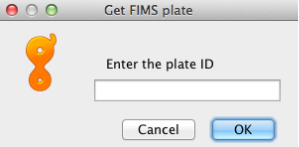
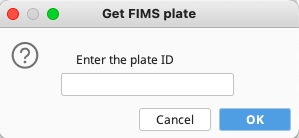
Update extraction_plates.rst (#25)
* Update extraction_plates.rst

updated text, 3rd person, capitalized titles, italicized windows, updated screenshots

* Add files via upload

These are the updated screenshots

diff --git a/Docs/extraction_plates.rst b/Docs/extraction_plates.rst
@@ -1,19 +1,19 @@
-Generating extraction plates
+Generating Extraction Plates
 ============================
 
-Creating the plate (96 wells)
+Creating the Plate (96 wells)
 -----------------------------
 
 The first step of the LIMS workflow is the generation of a DNA extraction plate. In LIMS terms, an "extraction plate" is a set of DNA extractions following identical protocols and can include anywhere from a single extraction up to a plate of 384 extractions. This set of extraction will be moved through the entire pipeline together.
 
 To create an extraction plate:
 
-* Click the "New Reaction" button on the Geneious Toolbar. 
+* Click the "New Reaction" button on the Geneious Prime Toolbar. 
 
 .. figure:: /images/new_reaction_button.png
   :align: center
 
-* In the drop-down menu of the "New Reaction" window, choose "Extraction" from the "Type of reaction" drop-down menu. Select the "96 well plate" size option and click OK. 
+* In the dropdown menu of the *New Reaction* window, choose "Extraction" from the "Type of reaction" dropdown menu. Select the "96 well plate" size option and click "OK". 
 
 .. figure:: /images/new_extraction_plate.png
   :align: center
@@ -23,101 +23,113 @@ To create an extraction plate:
 .. figure:: /images/empty_extraction_plate.png
   :align: center
 
-* Insert a name for the extraction plate into the relevant field in the window. (See the :ref:`lims_conventions-link` for best practices.)
+* Insert a name for the extraction plate into the relevant field in the window. (See the :ref:`lims_conventions-link` for best practices)
 
-* Click the "Bulk Edit" button (found in the toolbar, as seen in image above). This will allow you to attach the  FIMS meta-data from all tissues to each tissue's associated workflow in LIMS. 
+* Click the "Bulk Edit" button. 
 
-* A new "Edit Plate" window will appear. 
+* A new *Edit Plate* window will appear. Within this window, LIMS can pull the GEOME FIMS metadata for all tissues to be eventually attached to each tissue's LIMS workflow ID. 
 
 .. figure:: /images/get_tissue_ids.png
   :align: center
 
 * Click on "Tools" and select "Get Tissue ID's From Archive Plate" from the dropdown menu.
 
-* Another new window "Get FIMS plate" will appear.
+* Another new window *Get FIMS plate* will appear.
 
 .. figure:: /images/enter_plate_id.png
   :align: center
 
-* Here you must enter the tissuePlate value that was included in the FIMS spreadsheet for this expedition. Click "OK" once complete.
+* Here, enter the tissuePlate value that was included in the GEOME FIMS spreadsheet for this expedition. Click "OK" once complete.
 
-* A new window will appear indicating the LIMS is fetching the tissue ID's from the FIMS database. When successful, the "Tissue Sample Id" fields in the "Edit Plate" window will be populated. Alternatively, if you receive a message indicating that the plate cannot be found in the FIMS, check:
+* A new window will appear indicating the LIMS is fetching the tissue ID's from the FIMS database. When successful, the "Tissue Sample Id" fields in the *Edit Plate* window will be populated. Alternatively, if a message indicating that the plate cannot be found in the FIMS is recieved, check:
 
-	* that the plate ID is spelled exactly as it was included in the FIMS spreadsheet. 
+	* that the plate ID is spelled exactly as it was included in the GEOME FIMS spreadsheet and/or 
 
-	* that the FIMS spreadsheet was successfully uploaded to the FIMS; and
+	* that the FIMS spreadsheet was successfully uploaded to the GEOME FIMS.
 
-	* that when you logged in to the LIMS that you selected the correct FIMS field for the "Plate name field" of the log-in window.
 
-* After successful upload, select "Generate New Extraction IDs" from the "Tools" dropdown menu. The LIMS will automatically populate the second column of the window (Extraction Id). The .1 indicates this is the first extraction in the LIMs for that particular tissue, .2 would indicate it is the second and so on.
+* After successful upload, select "Generate New Extraction IDs" from the "Tools" dropdown menu in the *Edit Plate* window. The LIMS will automatically populate the second column of the window ("Extraction ID"). The .1 indicates this is the first extraction in the LIMs for that particular tissue, .2 would indicate it is the second and so on.
 
-* Finally you want to import the Extraction Barcode's for each DNA extract. This can be done in two different ways:
+* Finally, import the Extraction Barcodes (the 2D barcode on the bottom of the matrix tubes) for each DNA extract. This can be done in two different ways:
 
-* *Option 1:* This is our preferred method. Select "Import Extraction Barcodes from FIMS" from the "Tools" dropdown menu. A new window will appear, and select the FIMS column that contains the extraction barcodes from the dropdown menu - in our case it is "tissueOtherCatalogNumbers". For this to work, you must ensure that your FIMS spreadsheet contains the unique extraction barcodes.
+* *Option 1:* This is the recommended method. Select "Import Extraction Barcodes from FIMS" from the "Tools" dropdown menu. A new window will appear, and select the GEOME FIMS column that contains the extraction barcodes from the dropdown menu - typically this is "tissueOtherCatalogNumbers". For this to work, ensure that the FIMS contains the unique extraction barcodes.
 
 .. figure:: /images/import_extraction_barcode_FIMS.png
   :align: center
   :scale: 50 %
 
-* *Option 2:* Select "Import Extraction Barcodes from File" from the "Tools" dropdown menu. Select the file generated from the plate scanner. Ensure that the well order of the plate scan matches the well order displayed in the Edit Plate window.
+* *Option 2:* Select "Import Extraction Barcodes from File" from the "Tools" dropdown menu. Select the file generated from the plate scanner. Ensure that the well order of the plate scan matches the well order displayed in the *Edit Plate* window.
 
-* Once this is complete Click "OK" and you will be brought back to the "New Extraction" window.
+* Once this is complete Click "OK". Clicking "OK" will attach the FIMS metadata to the new extraction plate.
 
-* Here, click on "Edit All Wells" to open a new window. 
+* Back on the "*New Extraction* window, click on "Edit All Wells" to open a new window. 
 
 .. figure:: /images/edit_extraction_wells.png
   :align: center
 
-* This window allows you to enter information about the extraction - date, method, technician etc. 
+* Enter information about the extraction - date, method, technician etc. into this window. Once complete, click "OK". 
 
-* Once complete, click "OK" which will bring you back to the "New Extraction" window. 
+* Click "OK" in the *New Extraction* window for the LIMS to save the extraction plate.
 
-* Click "OK" in this window for the LIMS to save the extraction plate.
-
-Creating the working stock (96 wells)
+Creating the Working Stock (96 wells)
 -------------------------------------
 
-Once your DNA has been extracted, it is considered best practice to create a working stock. This protects the bulk of your DNA from freeze/thaw cycles as well as possible contamination during lab work. Because you are creating a working stock in the lab, you should also create one in the LIMS. 
+After DNA extraction, the extracts are typically stored in a 2D matrix plate for eventual storage in the biorepository while aliquots are kept in a separate plate to be used in PCR reactions. This protects the bulk of the DNA from freeze/thaw cycles as well as possible contamination during lab work. It is therefore considered best practice to create a working stock extraction plate in the LIMS to represent this aliquoted plate in the lab.
 
-After the initial extraction plate has been created in the LIMS, you can easily create a working stock from this same plate. 
+After the initial extraction plate has been created in the LIMS, it is easy to create a working stock from this same plate. 
 
-•	With the extraction plate you just created selected, click New Reaction. Make sure the box next to “Create plate from existing plate documents” is ticked, and that the Type of reaction is set to Extraction. Click OK. 
+Search for the recently created extraction plate in the Biocode Plugin. Highlight the plate and click "New Reaction" in the Genenious Prime Toolbar. 
+
+Make sure the box next to “Create plate from existing plate documents” is ticked, and that the "Type of reaction" is set to "Extraction". Click "OK". 
 
 .. figure:: /images/new_working_stock.png
    :align: center
    :scale: 50%
    
-•	As before, a new window will open displaying a plate map, except this time most of the data should already be populated. Go ahead and give your working stock a name, following the LIMS naming conventions. 
-•	Click on Bulk Edit to see the data that was pulled in from the extraction plate. You will notice that the Extraction Barcodes column is empty. Leave it empty. Re-entering Extraction Barcodes here will remove them from the parent plate. The working stock plate extractions are linked to the original extraction by the Parent Extraction ID.
-•	Click Save to save your working stock plate to the LIMS.
+As before, a new window will open displaying a plate map, except this time all needed data should already be populated. Give the working stock a name, following the :ref:`lims_conventions-link`. 
 
-Additional Information:
+Click on "Bulk Edit" to see the data that was pulled in from the extraction plate. The "Extraction Barcodes" column should be empty. **Leave it empty.** Re-entering Extraction Barcodes here will remove them from the parent plate. 
+
+The working stock plate extractions should be linked to the original extraction by the value that should be automatically populated in the "Parent Extraction ID" column. The values in the "Extraction ID" column should also automatically have increased.
+
+Click "Save" to save the working stock plate to the LIMS.
+
+Additional Information
 -----------------------
 
-More information on the "Edit Plate" Window:
-~~~~~~~~~~~~~~~~~~~~~~~~~~~~~~~~~~~~~~~~~~~~
+The *Edit Plate* Window
+~~~~~~~~~~~~~~~~~~~~~~~
 
-In this window, the well locations are displayed on the left hand side of each column to make placement easier. The "Swap Direction" button allows the user to choose between reading the plate horizontally or vertically. Clicking "OK" will attach the FIMS meta-data to the new extraction plate. 
+In this window, the well locations are displayed on the left hand side of each column to make placement easier. The "Swap Direction" button allows the user to choose between reading the plate horizontally or vertically. 
 
-Under the "Tools" menu within the "Bulk Edit" window there are a number of options, described below in order of the dropdown menu, available.
+Under the "Tools" dropdown menu there are a number of options available.
 
-	* The "Get Tissue ID's from archive plate" option allows the extraction plate to be filled with extraction IDs from the FIMS data source.
-	* "Import Extraction Barcodes from File" allows the extraction barcode values to be directly imported from the output file of the scanner if 2D well barcodes are being used.
-	* "Import Extraction Barcodes from FIMS" allows the extraction barcode values to be directly imported from the FIMS.
-	* "Fetch extractions from barcodes" is used during "cherry picking" to populate newly reconstituted plates from prior plate locations if physically moving the extractions from original plate to cherry picked plate. Can also use to pull sample info if cherry picked plate is aliquoted, but remember to delete the extraction barcodes before saving cherry picked plate so the barcodes stay in their original locations in LIMS.
-	* "Generate Extraction IDs" automatically generates appropriate extraction IDs based on the tissue sample IDs.
+"Get Tissue IDs From Archive Plate" 
+	This allows the extraction plate to be filled with extraction IDs from the FIMS data source.
 
-More information on editing wells in the plate:
-~~~~~~~~~~~~~~~~~~~~~~~~~~~~~~~~~~~~~~~~~~~~~~~
+"Import Extraction Barcodes from File"
+	This allows the Extraction Barcode values to be directly imported from the output file of the scanner if 2D well barcodes are being used.
 
-The "Edit All Wells" or "Edit Selected Wells" button, found in the toolbar of the "New Extraction" plate window, opens a customizable viewer and editor for plate documents. It is shown both when creating new plates, and when viewing existing plates in the database. Wells can be selected in the plate by dragging the mouse across the plate to select a number of wells, or holding down the shift and ctrl (command on mac) keys to help select multiple individual wells. When a well, or wells, have been selected, click "Edit Selected Wells" to customize those wells. 
+"Import Extraction Barcodes from FIMS"
+	This allows the Extraction Barcode values to be directly imported from the FIMS.
 
-The "Edit Wells" dialog window will open (see image above), and it has a column of checkboxes on its left hand side. Values in the checked fields will be applied to all selected reactions, and unchecked fields will be left as they are. Most values can simply be entered into a dialog box. Make sure to save the plate after making any edits to it.
+"Fetch Extractions from Barcodes" 
+	This is used during "cherry picking" to populate newly reconstituted plates from prior plate locations if physically moving the extractions from original plate to the cherry picked plate. This can also be used to pull sample info if cherry picked plate is aliquoted, but **remember to delete** the extraction barcodes before saving cherry picked plate so the barcodes stay in their original locations in LIMS.
 
-More information on the Display Options in the plate:
-~~~~~~~~~~~~~~~~~~~~~~~~~~~~~~~~~~~~~~~~~~~~~~~~~~~~~
+"Generate New Extraction IDs" 
+	This automatically generates appropriate Extraction IDs based on the Tissue Sample IDs.
 
-Clicking the "Display Options" button, found in the toolbar of the New Extraction plate window, opens the "Display" dialog window (below). The split-pane allows the user to choose any number of fields from the FIMS or LIMS database for display in the wells. 
+Editing Wells
+~~~~~~~~~~~~~
+
+The "Edit All Wells" or "Edit Selected Wells" button, found in the top of the *New Extraction* window, opens an editor for LIMS data associated with each well. It is shown both when creating new plates, and when viewing existing plates in the database. Wells can be selected in the plate by dragging the mouse across the plate to select a number of wells, or holding down the shift and ctrl (command on mac) keys to help select multiple individual wells. When a well, or wells, have been selected, click "Edit Selected Wells" to edit data within those wells. 
+
+The *Edit Wells* window will open (see image above), and it has a column of checkboxes on its left hand side. Values in the checked fields will be applied to all selected reactions, and unchecked fields will be left as they are. Most values can simply be entered into a dialog box. Make sure to save the plate after making any edits to it.
+
+Display Options
+~~~~~~~~~~~~~~~
+
+Clicking the "Display Options" button, found in the top of the *New Extraction* window, opens the *Display* window (below). The split-pane allows the user to choose any number of fields from the FIMS or LIMS database for display in the wells. 
 
 The available fields are shown in the left hand pane, and when fields are in the right hand pane they are displayed in the wells. To move a field between the two panes, select it and click the right or left arrow depending on the direction of the move. Once the fields to display have been decided upon, their display order can be altered using the up/down arrows on the right hand side of the dialog box. The field in the top position of the list will be displayed more prominently in the well, as it will be in larger, bold text.
 
@@ -125,6 +137,6 @@ The available fields are shown in the left hand pane, and when fields are in the
   :align: center
   :scale: 50 %
 
-Each well can be color-coded according to a particular field value. To select the field for color-coding use the "Color wells based on" drop-down menu found at bottom of the dialog window. All possible values for that field will be displayed and a color can be assigned to each of the values using the color chart.
+Each well can be color-coded according to a particular field value. To select the field for color-coding use the "Color wells based on" dropdown menu found at bottom of the dialog window. All possible values for that field will be displayed and a color can be assigned to each of the values using the color chart.
 
 A display setting can be saved as a template by clicking the "Select a template" button at the top of the dialog window and clicking "Create template". Click the "Save as Default" button to make that template the default. Separate defaults are stored for extraction, PCR, and cycle sequencing plates.
